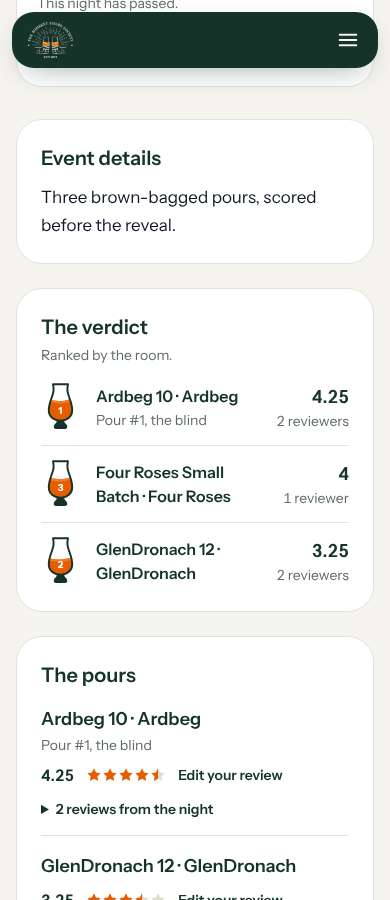
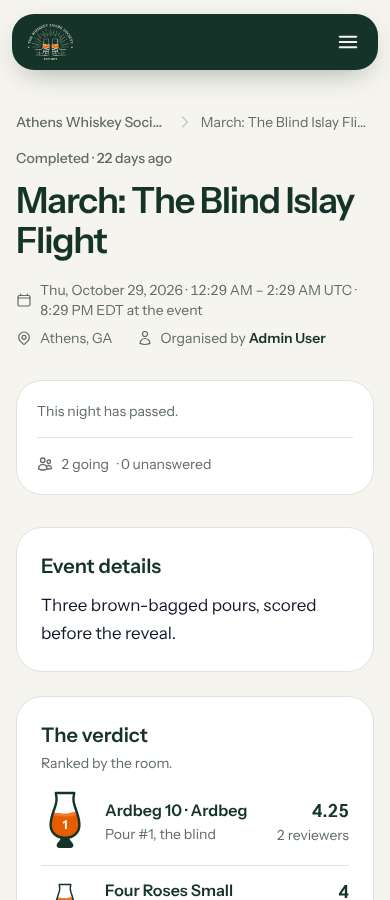
G1c: Glass polish — 40px table glasses, numerals only at 64px+, fixed score position
The table renders at 40px on the event page and society panel. The glass
partial ignores a numeral below 64px; the verdict's top row is 64px with its
numeral, the rest 40px without (sr-only serve order kept); homepage slide
glasses drop numerals. Reviews tasting cards keep the score top-right.

Claude-Session: https://claude.ai/code/session_012RnJvNgGH27bkzmexhXACF

diff --git a/test/integration/glass_test.rb b/test/integration/glass_test.rb
@@ -31,15 +31,21 @@ class GlassPartialTest < ActiveSupport::TestCase
   end
 
   test "cream tone on green, numeral in white over a full glass, label as sr-only text" do
-    html = glass(level: 0.9, tone: :cream, numeral: 2, label: "Pour 2,")
+    html = glass(level: 0.9, tone: :cream, numeral: 2, size: 64, label: "Pour 2,")
     svg = html.at_css("svg")
     assert_equal %w[#ff6d00 #ff8a33], svg.css("g path").map { |p| p["fill"] }
     assert_equal "#f6f4ee", svg.at_css("> path")["stroke"]
     assert_equal "#fff", svg.at_css("text")["fill"]
     assert_equal "Pour 2,", html.at_css(".sr-only").text
 
-    low = glass(level: 0.3, numeral: 1).at_css("text")
+    low = glass(level: 0.3, numeral: 1, size: 64).at_css("text")
     assert_equal "#16332a", low["fill"]
+  end
+
+  test "the numeral is ignored below 64px" do
+    assert_nil glass(level: 0.5, numeral: 1, size: 63).at_css("text")
+    assert_nil glass(level: 0.5, numeral: 1).at_css("text")
+    assert_equal "1", glass(level: 0.5, numeral: 1, size: 64).at_css("text").text
   end
 
   test "every glass on a page gets its own clipPath id, and pages do not share them" do
@@ -102,7 +108,7 @@ class GlassPagesTest < ActionDispatch::IntegrationTest
 
   # --- The verdict ----------------------------------------------------------
 
-  test "a revealed night ranks its pours by the room, glass level = mean / 5, numeral = serve order" do
+  test "a revealed night ranks its pours by the room, glass level = mean / 5, top glass numeral = serve order" do
     event = events(:spring_blind)
     get society_event_path(event.society, event)
     assert_select "[data-role=verdict] h2", text: "The verdict"
@@ -113,7 +119,10 @@ class GlassPagesTest < ActionDispatch::IntegrationTest
     assert_match "Four Roses", rows[1].text
     assert_match "GlenDronach 12", rows[2].text
     assert_equal %w[0.85 0.8 0.65], rows.map { |r| r.at_css("svg")["data-glass"] }
-    assert_equal %w[1 3 2], rows.map { |r| r.at_css("svg text").text }
+    # Numeral only on the top (64px) glass; serve order stays in the sr-only label.
+    assert_equal [ "1", nil, nil ], rows.map { |r| r.at_css("svg text")&.text }
+    assert_equal [ "64", "40", "40" ], rows.map { |r| r.at_css("svg")["height"] }
+    assert_equal [ "Pour 1,", "Pour 3,", "Pour 2," ], rows.map { |r| r.at_css(".sr-only").text }
     assert_match "4.25", rows[0].text
     assert_match "2 reviewers", rows[0].text
     assert_match "1 reviewer", rows[1].text
